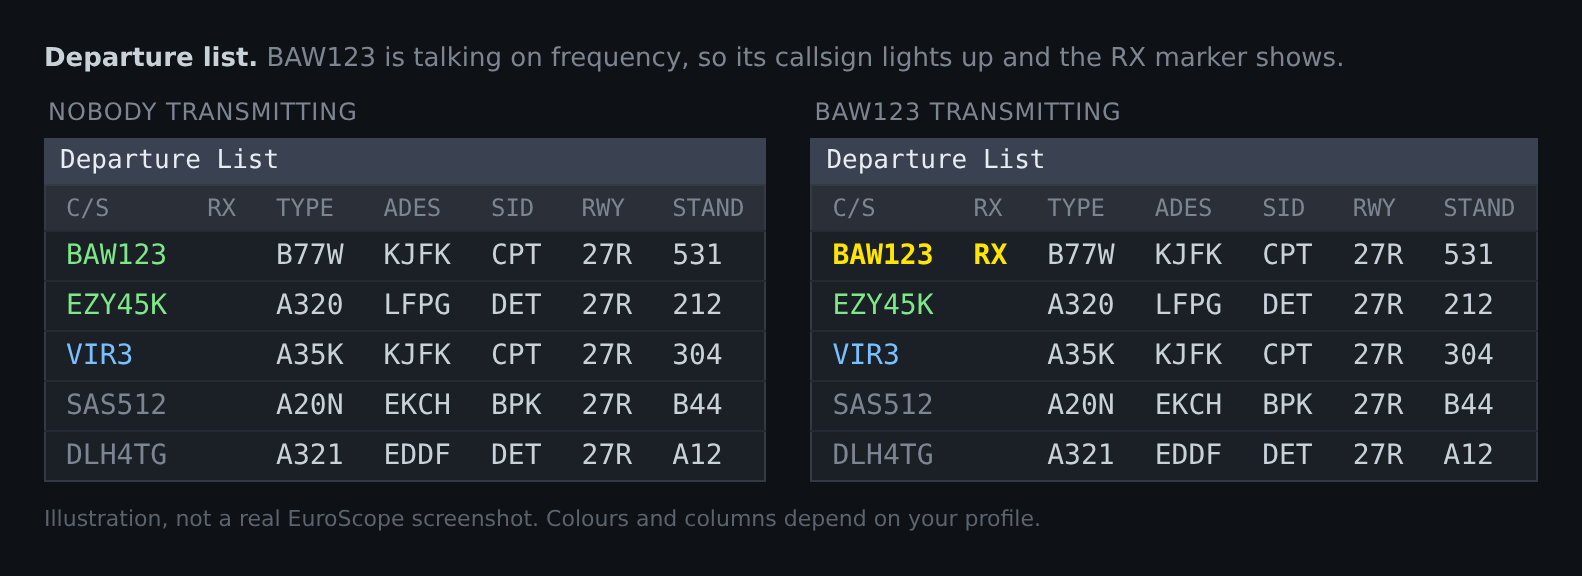
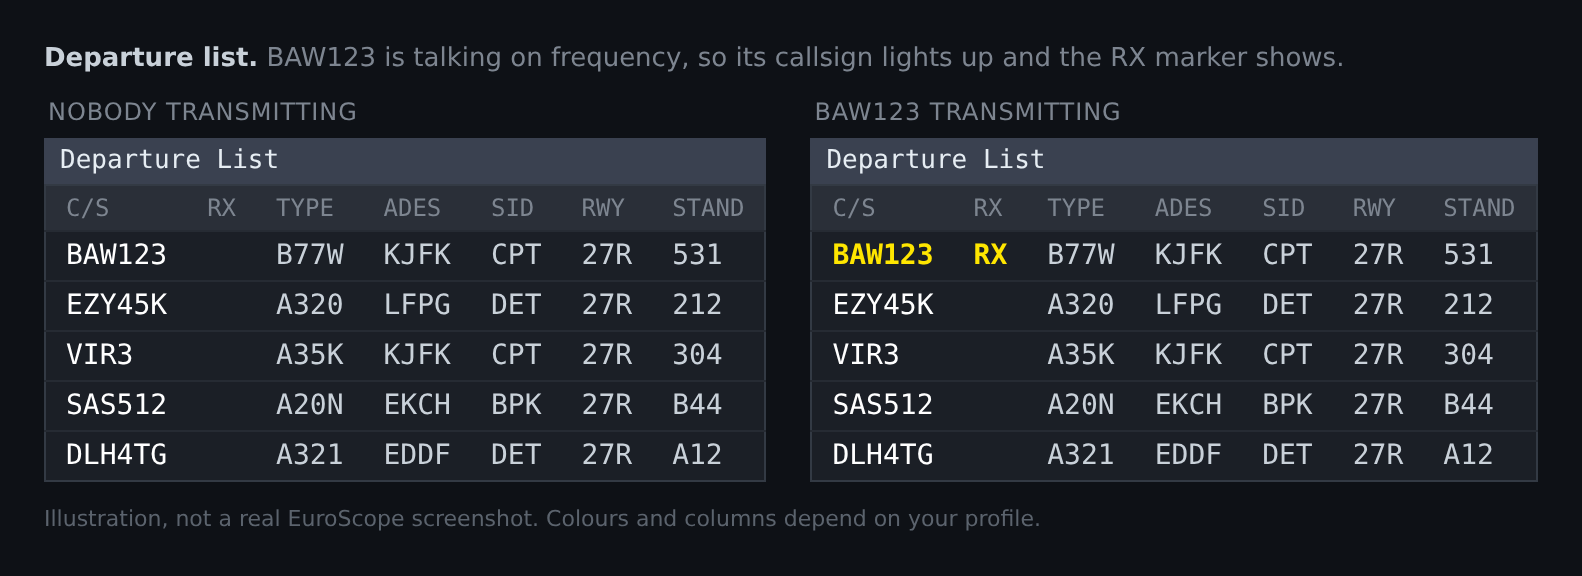
Make white the default callsign colour when nobody is transmitting
The RX Highlighter callsign column is now white (255,255,255) when the
pilot is not talking, matching EuroScope's TAXI status white. A colour
set with .rxh normal R G B is still kept, and .rxh normal default
switches back to EuroScope's own colours. Version 1.3.0.

Claude-Session: https://claude.ai/code/session_01E2aZbooZKuXC8DE8BjnyjF

diff --git a/docs/images/illustrations.html b/docs/images/illustrations.html
@@ -17,6 +17,7 @@
   table.list td { padding:4px 10px; border-top:1px solid var(--grid); white-space:nowrap; }
   .a { color:var(--assumed); } .n { color:var(--notified); } .d { color:var(--dim); }
   .rx { color:var(--rx); font-weight:bold; }
+  .w { color:#ffffff; }
   .mk { color:var(--rx); font-weight:bold; width:34px; }
   .msgs { background:#11151b; border:1px solid #333a44; font-size:13px; padding:8px 10px; white-space:nowrap; line-height:1.6; }
   .msgs .h { color:#d2a8ff; }
@@ -31,11 +32,11 @@
       <div class="label">Nobody transmitting</div>
       <table class="list"><caption>Departure List</caption>
         <tr><th>C/S</th><th>RX</th><th>TYPE</th><th>ADES</th><th>SID</th><th>RWY</th><th>STAND</th></tr>
-        <tr><td class="a">BAW123</td><td class="mk"></td><td>B77W</td><td>KJFK</td><td>CPT</td><td>27R</td><td>531</td></tr>
-        <tr><td class="a">EZY45K</td><td class="mk"></td><td>A320</td><td>LFPG</td><td>DET</td><td>27R</td><td>212</td></tr>
-        <tr><td class="n">VIR3</td><td class="mk"></td><td>A35K</td><td>KJFK</td><td>CPT</td><td>27R</td><td>304</td></tr>
-        <tr><td class="d">SAS512</td><td class="mk"></td><td>A20N</td><td>EKCH</td><td>BPK</td><td>27R</td><td>B44</td></tr>
-        <tr><td class="d">DLH4TG</td><td class="mk"></td><td>A321</td><td>EDDF</td><td>DET</td><td>27R</td><td>A12</td></tr>
+        <tr><td class="w">BAW123</td><td class="mk"></td><td>B77W</td><td>KJFK</td><td>CPT</td><td>27R</td><td>531</td></tr>
+        <tr><td class="w">EZY45K</td><td class="mk"></td><td>A320</td><td>LFPG</td><td>DET</td><td>27R</td><td>212</td></tr>
+        <tr><td class="w">VIR3</td><td class="mk"></td><td>A35K</td><td>KJFK</td><td>CPT</td><td>27R</td><td>304</td></tr>
+        <tr><td class="w">SAS512</td><td class="mk"></td><td>A20N</td><td>EKCH</td><td>BPK</td><td>27R</td><td>B44</td></tr>
+        <tr><td class="w">DLH4TG</td><td class="mk"></td><td>A321</td><td>EDDF</td><td>DET</td><td>27R</td><td>A12</td></tr>
       </table>
     </div>
     <div>
@@ -43,10 +44,10 @@
       <table class="list"><caption>Departure List</caption>
         <tr><th>C/S</th><th>RX</th><th>TYPE</th><th>ADES</th><th>SID</th><th>RWY</th><th>STAND</th></tr>
         <tr><td class="rx">BAW123</td><td class="mk">RX</td><td>B77W</td><td>KJFK</td><td>CPT</td><td>27R</td><td>531</td></tr>
-        <tr><td class="a">EZY45K</td><td class="mk"></td><td>A320</td><td>LFPG</td><td>DET</td><td>27R</td><td>212</td></tr>
-        <tr><td class="n">VIR3</td><td class="mk"></td><td>A35K</td><td>KJFK</td><td>CPT</td><td>27R</td><td>304</td></tr>
-        <tr><td class="d">SAS512</td><td class="mk"></td><td>A20N</td><td>EKCH</td><td>BPK</td><td>27R</td><td>B44</td></tr>
-        <tr><td class="d">DLH4TG</td><td class="mk"></td><td>A321</td><td>EDDF</td><td>DET</td><td>27R</td><td>A12</td></tr>
+        <tr><td class="w">EZY45K</td><td class="mk"></td><td>A320</td><td>LFPG</td><td>DET</td><td>27R</td><td>212</td></tr>
+        <tr><td class="w">VIR3</td><td class="mk"></td><td>A35K</td><td>KJFK</td><td>CPT</td><td>27R</td><td>304</td></tr>
+        <tr><td class="w">SAS512</td><td class="mk"></td><td>A20N</td><td>EKCH</td><td>BPK</td><td>27R</td><td>B44</td></tr>
+        <tr><td class="w">DLH4TG</td><td class="mk"></td><td>A321</td><td>EDDF</td><td>DET</td><td>27R</td><td>A12</td></tr>
       </table>
     </div>
   </div>
@@ -94,10 +95,10 @@
 <div class="shot" id="messages">
   <div class="caption"><b>Commands.</b> <code>.rxh test</code> checks the setup without anyone on frequency. <code>.rxh status</code> shows the connection.</div>
   <div class="msgs">
-    <div><span class="h">[RX Highlighter]</span> <span class="c">Version 1.2.0 loaded. Type .rxh for help.</span></div>
+    <div><span class="h">[RX Highlighter]</span> <span class="c">Version 1.3.0 loaded. Type .rxh for help.</span></div>
     <div><span class="h">[RX Highlighter]</span> <span class="c">Connected to TrackAudio.</span></div>
     <div><span class="h">[RX Highlighter]</span> <span class="c">Lighting up BAW123 for 5 s.</span></div>
-    <div><span class="h">[RX Highlighter]</span> <span class="c">Voice: connected to TrackAudio (WebSocket) on port 49080 | colour 255 230 0 | normal EuroScope default | linger 1500 ms | marker 'RX'</span></div>
+    <div><span class="h">[RX Highlighter]</span> <span class="c">Voice: connected to TrackAudio (WebSocket) on port 49080 | colour 255 230 0 | normal 255 255 255 | linger 1500 ms | marker 'RX'</span></div>
     <div><span class="h">[RX Highlighter]</span> <span class="c">Lit up now: BAW123</span></div>
   </div>
   <div class="note">Message text is what the plug-in prints. The chat window styling is illustrative.</div>

diff --git a/src/RxHighlightPlugin.cpp b/src/RxHighlightPlugin.cpp
@@ -120,6 +120,7 @@ void RxHighlightPlugin::LoadSettings()
         ParseRgb(v, colour_);
     }
     if (const char* v = GetDataFromSettings("RxNormalColour")) {
+        // "default" (or anything that isn't R,G,B) = EuroScope's own colours.
         normalColourSet_ = ParseRgb(v, normalColour_);
     }
     if (const char* v = GetDataFromSettings("RxLingerMs")) {
@@ -262,7 +263,7 @@ void RxHighlightPlugin::ShowHelp()
 {
     Message(std::string(kCommand) + " status               - connection and settings");
     Message(std::string(kCommand) + " colour R G B         - highlight colour, e.g. .rxh colour 255 230 0");
-    Message(std::string(kCommand) + " normal R G B         - callsign colour when NOT transmitting");
+    Message(std::string(kCommand) + " normal R G B         - callsign colour when NOT transmitting (default white)");
     Message(std::string(kCommand) + " normal default       - use EuroScope's own colours when not transmitting");
     Message(std::string(kCommand) + " linger MS            - keep lit for MS after RX ends (0-10000)");
     Message(std::string(kCommand) + " marker TEXT          - text for the 'Transmitting marker' item");

diff --git a/src/RxHighlightPlugin.h b/src/RxHighlightPlugin.h
@@ -71,9 +71,10 @@ private:
 
     // Settings
     COLORREF colour_ = RGB(255, 230, 0);
-    // Colour of the callsign when NOT transmitting. Unset = EuroScope's own
-    // colours (assumed / notified / non-concerned etc.).
-    bool normalColourSet_ = false;
+    // Colour of the callsign when NOT transmitting. White by default;
+    // `.rxh normal default` switches to EuroScope's own colours
+    // (assumed / notified / non-concerned etc.).
+    bool normalColourSet_ = true;
     COLORREF normalColour_ = RGB(255, 255, 255);
     std::chrono::milliseconds linger_{1500};
     std::string marker_ = "RX";

diff --git a/src/Version.h b/src/Version.h
@@ -1,5 +1,5 @@
 #pragma once
 
 #define RXH_PLUGIN_NAME "RX Highlighter"
-#define RXH_VERSION_STRING "1.2.0"
+#define RXH_VERSION_STRING "1.3.0"
 #define RXH_AUTHOR "RX Highlighter contributors"

diff --git a/README.md b/README.md
@@ -66,12 +66,12 @@ plug-in provides a callsign column that changes colour itself:
 4. Optional: add a narrow column with **`RX Highlighter: Transmitting marker`**. It shows
    `RX` while the aircraft is transmitting.
 
-When the pilot isn't transmitting, the callsign keeps EuroScope's normal colour (assumed,
-notified, etc.). Only while they're on frequency does it change to the highlight colour.
+When the pilot isn't transmitting, the callsign is **white**. While they're on frequency it
+changes to the highlight colour (yellow by default).
 
-If the callsign looks too dark when nobody is talking, choose your own colour for that, e.g.
-`.rxh normal 255 255 255` for white. This replaces EuroScope's assumed/notified colours in
-that column. Type `.rxh normal default` to go back to EuroScope's colours.
+Choose a different colour for when nobody is talking with `.rxh normal R G B`. Type
+`.rxh normal default` to use EuroScope's own assumed, notified and non-concerned colours
+instead.
 
 Check your setup without anyone talking: `.rxh test BAW123` lights up BAW123 for 5 seconds.
 
@@ -84,8 +84,8 @@ Check your setup without anyone talking: `.rxh test BAW123` lights up BAW123 for
 | `.rxh` | Help |
 | `.rxh status` | Connection state, settings and who is lit up |
 | `.rxh colour R G B` | Highlight colour (default `255 230 0`, bright yellow) |
-| `.rxh normal R G B` | Callsign colour when **not** transmitting, e.g. `.rxh normal 255 255 255` |
-| `.rxh normal default` | Use EuroScope's own colours when not transmitting (the default) |
+| `.rxh normal R G B` | Callsign colour when **not** transmitting (default `255 255 255`, white) |
+| `.rxh normal default` | Use EuroScope's own colours when not transmitting |
 | `.rxh linger MS` | Stay lit for MS after the transmission ends (default 1500, 0–10000) |
 | `.rxh marker TEXT` | Text shown by the marker item (default `RX`) |
 | `.rxh port N` | Voice client port (default 49080) |

diff --git a/docs/releases/v1.3.0.md b/docs/releases/v1.3.0.md
@@ -1,0 +1,11 @@
+## What's new
+
+- **Callsigns are white by default when nobody is talking**, the same white as EuroScope's TAXI status. You no longer need to type `.rxh normal 255 255 255`.
+- If you already set your own colour with `.rxh normal R G B`, it's kept.
+- To use EuroScope's own assumed, notified and non-concerned colours instead, type `.rxh normal default`.
+
+## Download
+
+Download **`RxHighlighter.dll`** below and replace your existing copy while EuroScope is closed. Your list setup and settings stay the same.
+
+New to the plug-in? Follow the [setup steps in the README](https://github.com/Aster-Ker/euroscope-rx-highlighter#install).
